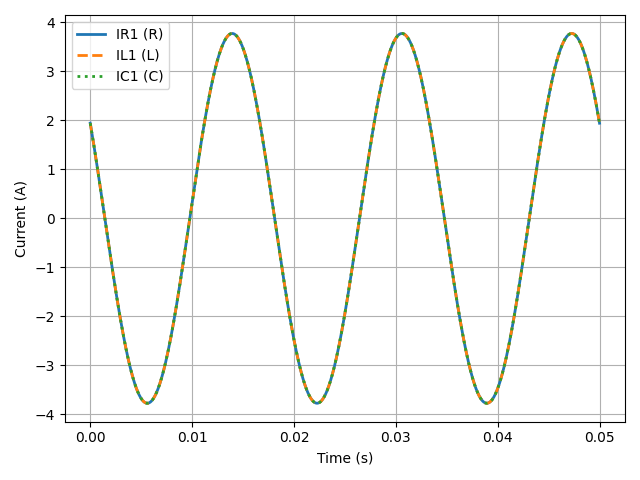
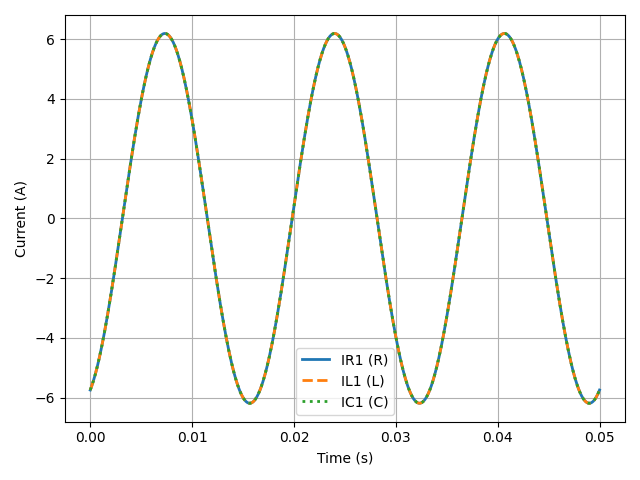
ac analysis final

diff --git a/frontend/src/contextApi/MyContext.js b/frontend/src/contextApi/MyContext.js
@@ -73,7 +73,12 @@ const sendSimulationData = () => {
     } else if(type==="W"){
       component.type="Wire";
       component.id=`W${components.filter(comp=>comp.type==='Wire').length+1}`;
-    } else {
+    } else if(type==="V"){
+      component.type="DC Source";
+      component.id=`V${components.filter(comp=>comp.type==='DC Source').length+1}`;
+      component.value=`${value}`
+    }
+    else {
       // Generic component or handle other specific cases
       component.type = 'Generic';
       component.id = key;

diff --git a/backend/ac_analysis.py b/backend/ac_analysis.py
@@ -27,58 +27,64 @@ def run_ac_analysis(netlist_filename='netlist.txt'):
             'j': 1j,  # Imaginary unit
         }
         try:
-            result = -1j * eval(expression, {"__builtins__": None}, safe_dict)
+            result = j * eval(expression, {"__builtins__": None}, safe_dict)
         except Exception as e:
             print(f"Error evaluating expression: {e}")
             return None  # or raise an exception, or handle it as you see fit
         return complex(result)
-
+    
     # Lists for storing phasor data and component labels
-    v_phasors = []
+    phasors = []
     labels = []
-    colors = []  # We can use a cycle of colors or define a large list manually
-    color_cycle = plt.cm.viridis(np.linspace(0, 1, 20))  # More colors than expected components
 
     # Helper function to extract and store phasors
-    def add_phasors(component, label_prefix):
-        if component in cct_ac.elements:
-            v_phasor_expr = str(cct_ac[component].v.phasor())
-            v_phasor = evaluate_complex_expression(v_phasor_expr)
+    def add_phasors(component):
+        # Voltage phasor
+        v_phasor_expr = str(cct_ac[component].v.phasor())
+        v_phasor = evaluate_complex_expression(v_phasor_expr)
+        if v_phasor is not None:
             magnitude, angle = polar(v_phasor)
-            v_phasors.append((magnitude, angle))
+            phasors.append((magnitude, angle))
             labels.append(f'V_{component}')
-            colors.append(component_color[label_prefix])
-
-    # Component type to color mapping
-    component_color = {
-        'R': 'red',    # Resistors are red
-        'L': 'yellow', # Inductors are yellow
-        'C': 'blue'    # Capacitors are blue
-    }
+        
+        # Current phasor
+        i_phasor_expr = str(cct_ac[component].i.phasor())
+        i_phasor = evaluate_complex_expression(i_phasor_expr)
+        if i_phasor is not None:
+            magnitude, angle = polar(i_phasor)
+            phasors.append((magnitude, angle))
+            labels.append(f'I_{component}')
 
     # Automatically detect components based on common naming conventions
-    for component_type_prefix in ['R', 'L', 'C']:  # Resistors, Inductors, Capacitors
+    component_count=0
+    for component_type_prefix in ['A','V','R', 'L', 'C']: 
+        component_count+=1
         index = 1
         while True:
             component_name = f"{component_type_prefix}{index}"
             if component_name not in cct_ac.elements:
                 break
-            add_phasors(component_name, component_type_prefix)
+            add_phasors(component_name)
             index += 1
 
     # Plotting on polar projection
-    fig, ax = plt.subplots(subplot_kw={'projection': 'polar'})
-    for (magnitude, angle), label, color in zip(v_phasors, labels, colors):
-        ax.plot([0, angle], [0, magnitude], label=label, color=color)
+    fig=plt.figure()
+    ax = fig.add_subplot(111, polar=True)
+
+    print(phasors)
+   
+    #ax.arrow(0,0,LV.theta[1],LV.mag[1], length_includes_head=True)
+    for (magnitude, angle), label in zip(phasors, labels):
+        # Optional: Print phasor data to the console for debugging or overview
         annotation = f'{label}: {magnitude:.2f}∠{np.degrees(angle):.0f}°'
         print(annotation)
-        ax.annotate(annotation, xy=(angle, magnitude), xytext=(angle + 0.1, magnitude + 0.1),
-                    textcoords='data', arrowprops=dict(arrowstyle="->", connectionstyle="arc3", color=color),
-                    bbox=dict(boxstyle="round,pad=0.3", facecolor='white', edgecolor=color, alpha=0.5), color=color)
+        
+        # Plot a visible line for legend purposes (make it very short and outside the normal view)
+        ax.plot([0, angle], [0, magnitude], label=annotation)
 
     # Enhance the plot
-    ax.set_thetagrids(range(0, 360, 45))
-    ax.legend(loc='upper right', bbox_to_anchor=(1.1, 1.1))
+    ax.set_yticklabels([])
+    ax.legend(bbox_to_anchor=(0,0,1,1), bbox_transform=fig.transFigure)
 
     plt.savefig('ac_analysis_phasor.png')
 

diff --git a/backend/main.py b/backend/main.py
@@ -42,8 +42,10 @@ def simulate():
             node2 = comp.get('node2', '')
             value = comp.get('value', '')
 
-            if type_prefix in ['AC Source', 'Inductor', 'Resistor', 'Wire', 'Capacitor', 'Generic']:
-                line = f"{id_} {node1} {node2} {value}\n"
+            if type_prefix in ['AC Source','DC Source', 'Inductor', 'Resistor', 'Wire', 'Capacitor', 'Generic']:
+                if type_prefix=='AC Source' or type_prefix=='DC Source':
+                    line=f"{id_} {node2} {node1} {value}\n"
+                else: line = f"{id_} {node1} {node2} {value}\n"
                 cctt += line
 
         # Dummy Circuit processing. Implement your Circuit class logic here
@@ -61,14 +63,19 @@ def simulate():
             run_ac_analysis()
             app.config['IMG_FILE_NAME'] = "ac_analysis_phasor.png"
             node_voltages = {}
+            current={}
         elif analysisType == "transient":
             run_transient_analysis()
             app.config['IMG_FILE_NAME'] = "transient_analysis-voltage.png"
-            node_voltages = {}
+            # node_voltages = {}
+            # current={}
         else:
             raise ValueError("Unsupported analysis type")
 
-        return jsonify({"node_voltages": node_voltages})
+        return jsonify({
+            "node_voltages": node_voltages,
+            "current": current
+                        })
 
     except Exception as e:
         app.logger.error("Error during simulation: %s", str(e))
